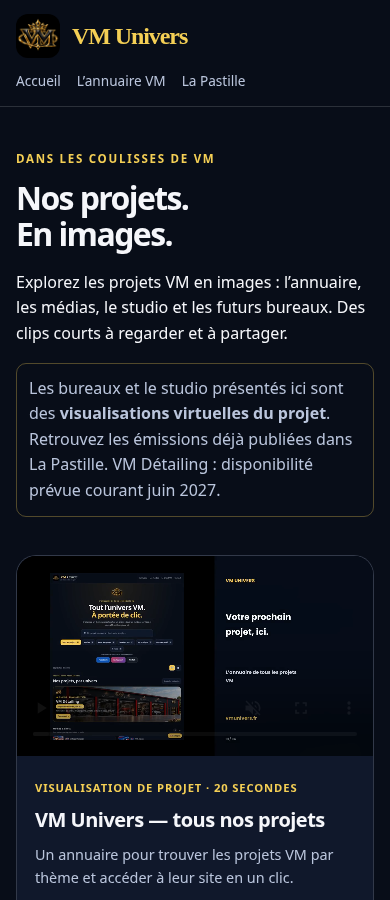
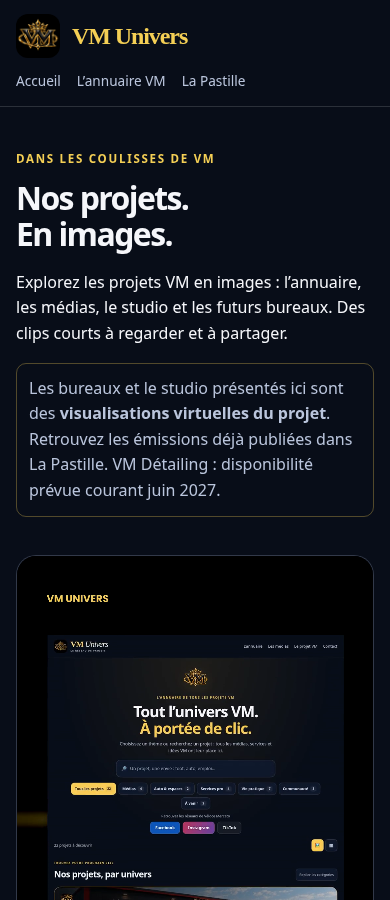
Adapte la galerie au format vidéo de chaque écran

diff --git a/decouvrir.html b/decouvrir.html
@@ -1,1 +1,1 @@
-<!doctype html><html lang="fr"><head><meta charset="utf-8"><meta name="viewport" content="width=device-width,initial-scale=1"><title>Les projets en images — VM Univers</title><meta name="description" content="Explorez les projets VM en images : l’annuaire, les médias, le studio et les futurs bureaux."><link rel="canonical" href="https://vmunivers.fr/decouvrir.html"><meta property="og:title" content="Les projets VM, en images"><meta property="og:description" content="Explorez les projets VM en images : l’annuaire, les médias, le studio et les futurs bureaux."><meta property="og:url" content="https://vmunivers.fr/decouvrir.html"><meta property="og:image" content="https://vmunivers.fr/media/promos/vm-univers-paysage.jpg"><link rel="icon" href="/app/univers-192.png"><link rel="stylesheet" href="/assets/promotion.css"></head><body><header class="promo-top"><a class="promo-brand" href="/"><img src="/app/univers-192.png" width="44" height="44" alt=""><strong>VM Univers</strong></a><nav class="promo-nav" aria-label="Navigation"><a href="/">Accueil</a><a href="https://vmunivers.fr/#projets">L’annuaire VM</a><a href="https://velocemercato.fr/studio.html#tv">La Pastille</a></nav></header><main><section class="promo-head"><p class="promo-kicker">DANS LES COULISSES DE VM</p><h1>Nos projets.<br>En images.</h1><p>Explorez les projets VM en images : l’annuaire, les médias, le studio et les futurs bureaux. Des clips courts à regarder et à partager.</p><p class="promo-note">Les bureaux et le studio présentés ici sont des <b>visualisations virtuelles du projet</b>. Retrouvez les émissions déjà publiées dans La Pastille. VM Détailing : disponibilité prévue courant juin 2027.</p></section><section class="promo-grid" aria-label="Vidéos de présentation"><article class="clip" id="vm-univers"><video controls playsinline preload="none" poster="/media/promos/vm-univers-paysage.jpg" aria-label="VM Univers — tous nos projets"><source src="/media/promos/vm-univers-paysage.mp4" type="video/mp4"><track kind="captions" src="/media/promos/vm-univers.vtt" srclang="fr" label="Textes de la vidéo">Votre navigateur ne peut pas lire cette vidéo. <a href="/media/promos/vm-univers-paysage.mp4">Ouvrir le MP4</a>.</video><div class="clip-body"><span class="clip-tag">VISUALISATION DE PROJET · 20 SECONDES</span><h2>VM Univers — tous nos projets</h2><p>Un annuaire pour trouver les projets VM par thème et accéder à leur site en un clic.</p><div class="clip-actions"><a class="primary" href="https://vmunivers.fr/">Explorer ce projet →</a><a href="/media/promos/vm-univers-vertical.mp4" download>Télécharger pour les réseaux</a><a href="/media/promos/vm-univers-paysage.mp4" download>Version horizontale</a></div><details class="clip-script"><summary>Lire la présentation</summary><ol><li><b>Votre prochain projet, ici.</b> — L’annuaire de tous les projets VM</li><li><b>Un thème. Un seul clic.</b> — Médias · services · outils · communauté</li><li><b>Une vision pour demain.</b> — Les futurs bureaux VM <span class="promo-badge">(visualisation du projet)</span></li><li><b>Entrez dans l’univers VM.</b> — Choisissez votre prochain projet</li></ol></details></div></article><article class="clip" id="vm-bureaux"><video controls playsinline preload="none" poster="/media/promos/vm-bureaux-paysage.jpg" aria-label="VM Univers — les futurs bureaux"><source src="/media/promos/vm-bureaux-paysage.mp4" type="video/mp4"><track kind="captions" src="/media/promos/vm-bureaux.vtt" srclang="fr" label="Textes de la vidéo">Votre navigateur ne peut pas lire cette vidéo. <a href="/media/promos/vm-bureaux-paysage.mp4">Ouvrir le MP4</a>.</video><div class="clip-body"><span class="clip-tag">VISUALISATION DE PROJET · 20 SECONDES</span><h2>VM Univers — les futurs bureaux</h2><p>Une visualisation de la partie bureaux du projet VM, dans l’esprit du bâtiment VM Détailing.</p><div class="clip-actions"><a class="primary" href="https://vmunivers.fr/decouvrir.html#vm-bureaux">Explorer ce projet →</a><a href="/media/promos/vm-bureaux-vertical.mp4" download>Télécharger pour les réseaux</a><a href="/media/promos/vm-bureaux-paysage.mp4" download>Version horizontale</a></div><details class="clip-script"><summary>Lire la présentation</summary><ol><li><b>Les bureaux VM. Demain se dessine.</b> — La partie bureaux du projet VM <span class="promo-badge">(visualisation du projet)</span></li><li><b>L’accueil. L’identité VM.</b> — Noir, rouge et or <span class="promo-badge">(visualisation du projet)</span></li><li><b>Des idées prennent forme.</b> — Une visualisation du projet, côté bureaux <span class="promo-badge">(visualisation du projet)</span></li><li><b>Explorez tous les projets.</b> — VM Univers, le portail central <span class="promo-badge">(visualisation du projet)</span></li></ol></details></div></article><article class="clip" id="vm-studio"><video controls playsinline preload="none" poster="/media/promos/vm-studio-paysage.jpg" aria-label="VM Studio — le projet TV &amp; radio"><source src="/media/promos/vm-studio-paysage.mp4" type="video/mp4"><track kind="captions" src="/media/promos/vm-studio.vtt" srclang="fr" label="Textes de la vidéo">Votre navigateur ne peut pas lire cette vidéo. <a href="/media/promos/vm-studio-paysage.mp4">Ouvrir le MP4</a>.</video><div class="clip-body"><span class="clip-tag">VISUALISATION DE PROJET · 20 SECONDES</span><h2>VM Studio — le projet TV &amp; radio</h2><p>Une visualisation du projet de studio TV et radio dans l’identité Véloce.</p><div class="clip-actions"><a class="primary" href="https://velocemercato.fr/studio.html#tv">Explorer ce projet →</a><a href="/media/promos/vm-studio-vertical.mp4" download>Télécharger pour les réseaux</a><a href="/media/promos/vm-studio-paysage.mp4" download>Version horizontale</a></div><details class="clip-script"><summary>Lire la présentation</summary><ol><li><b>Bienvenue dans VM Studio.</b> — Une identité Véloce, en version virtuelle <span class="promo-badge">(visualisation du projet)</span></li><li><b>Foot. Actus. Gaming.</b> — Le projet de plateau VM <span class="promo-badge">(visualisation du projet)</span></li><li><b>Le micro est à VM.</b> — TV, radio et personnages virtuels <span class="promo-badge">(visualisation du projet)</span></li><li><b>Découvrez La Pastille.</b> — Les émissions déjà publiées sont sur le site <span class="promo-badge">(visualisation du projet)</span></li></ol></details></div></article><article class="clip" id="veloce-foot"><video controls playsinline preload="none" poster="/media/promos/veloce-foot-paysage.jpg" aria-label="Véloce Mercato — le foot simplement"><source src="/media/promos/veloce-foot-paysage.mp4" type="video/mp4"><track kind="captions" src="/media/promos/veloce-foot.vtt" srclang="fr" label="Textes de la vidéo">Votre navigateur ne peut pas lire cette vidéo. <a href="/media/promos/veloce-foot-paysage.mp4">Ouvrir le MP4</a>.</video><div class="clip-body"><span class="clip-tag">DÉCOUVRIR LE SITE · 20 SECONDES</span><h2>Véloce Mercato — le foot simplement</h2><p>Le football et le mercato, des brèves sourcées aux émissions de La Pastille.</p><div class="clip-actions"><a class="primary" href="https://velocemercato.fr/">Explorer ce projet →</a><a href="/media/promos/veloce-foot-vertical.mp4" download>Télécharger pour les réseaux</a><a href="/media/promos/veloce-foot-paysage.mp4" download>Version horizontale</a></div><details class="clip-script"><summary>Lire la présentation</summary><ol><li><b>Le foot. Simple et rapide.</b> — L’univers Véloce Mercato</li><li><b>Mercato, brèves et scores.</b> — Des infos avec leurs sources</li><li><b>La Pastille Foot avec Heineguez.</b> — Présentateur virtuel · émissions générées par IA</li><li><b>Entrez dans le match.</b> — Actualités, quiz et communauté</li></ol></details></div></article><article class="clip" id="vm-actus"><video controls playsinline preload="none" poster="/media/promos/vm-actus-paysage.jpg" aria-label="VM Actus — comprendre l’essentiel"><source src="/media/promos/vm-actus-paysage.mp4" type="video/mp4"><track kind="captions" src="/media/promos/vm-actus.vtt" srclang="fr" label="Textes de la vidéo">Votre navigateur ne peut pas lire cette vidéo. <a href="/media/promos/vm-actus-paysage.mp4">Ouvrir le MP4</a>.</video><div class="clip-body"><span class="clip-tag">DÉCOUVRIR LE SITE · 20 SECONDES</span><h2>VM Actus — comprendre l’essentiel</h2><p>L’actualité en brèves avec les médias cités et les émissions de VM Actus.</p><div class="clip-actions"><a class="primary" href="https://velocemercato.fr/actus/">Explorer ce projet →</a><a href="/media/promos/vm-actus-vertical.mp4" download>Télécharger pour les réseaux</a><a href="/media/promos/vm-actus-paysage.mp4" download>Version horizontale</a></div><details class="clip-script"><summary>Lire la présentation</summary><ol><li><b>L’essentiel de l’actualité.</b> — France, monde et régions</li><li><b>Des brèves claires. Des sources citées.</b> — Explorez les thèmes qui vous intéressent</li><li><b>Le JT VM Actus avec Heineguez.</b> — Présentateur virtuel · émissions générées par IA</li><li><b>Prenez le temps de comprendre.</b> — Retrouvez les articles et les émissions</li></ol></details></div></article><article class="clip" id="vm-gaming"><video controls playsinline preload="none" poster="/media/promos/vm-gaming-paysage.jpg" aria-label="VM Gaming — trouve ta communauté"><source src="/media/promos/vm-gaming-paysage.mp4" type="video/mp4"><track kind="captions" src="/media/promos/vm-gaming.vtt" srclang="fr" label="Textes de la vidéo">Votre navigateur ne peut pas lire cette vidéo. <a href="/media/promos/vm-gaming-paysage.mp4">Ouvrir le MP4</a>.</video><div class="clip-body"><span class="clip-tag">DÉCOUVRIR LE SITE · 20 SECONDES</span><h2>VM Gaming — trouve ta communauté</h2><p>Les jeux vidéo, les actualités et une communauté à découvrir sur VM Gaming.</p><div class="clip-actions"><a class="primary" href="https://velocemercato.fr/vm-gaming/">Explorer ce projet →</a><a href="/media/promos/vm-gaming-vertical.mp4" download>Télécharger pour les réseaux</a><a href="/media/promos/vm-gaming-paysage.mp4" download>Version horizontale</a></div><details class="clip-script"><summary>Lire la présentation</summary><ol><li><b>Des jeux. Des actus. Des potes.</b> — Bienvenue dans VM Gaming</li><li><b>EA FC, GTA, Warzone et plus.</b> — Retrouvez les brèves de vos jeux</li><li><b>Une escouade. Une communauté.</b> — Personnages inventés · univers VM Gaming</li><li><b>Rejoignez VM Gaming.</b> — Découvrez le site et son Discord</li></ol></details></div></article></section></main><footer class="promo-foot"><p>VM Univers · un réseau de médias, de services et de projets.</p><a href="https://vmunivers.fr/">VM Univers</a><a href="https://velocemercato.fr/">Véloce Mercato</a><a href="https://velocemercato.fr/mentions-legales.html">Mentions légales</a></footer></body></html>
+<!doctype html><html lang="fr"><head><meta charset="utf-8"><meta name="viewport" content="width=device-width,initial-scale=1"><title>Les projets en images — VM Univers</title><meta name="description" content="Explorez les projets VM en images : l’annuaire, les médias, le studio et les futurs bureaux."><link rel="canonical" href="https://vmunivers.fr/decouvrir.html"><meta property="og:title" content="Les projets VM, en images"><meta property="og:description" content="Explorez les projets VM en images : l’annuaire, les médias, le studio et les futurs bureaux."><meta property="og:url" content="https://vmunivers.fr/decouvrir.html"><meta property="og:image" content="https://vmunivers.fr/media/promos/vm-univers-paysage.jpg"><link rel="icon" href="/app/univers-192.png"><link rel="stylesheet" href="/assets/promotion.css"><script src="/assets/promotion.js" defer></script></head><body><header class="promo-top"><a class="promo-brand" href="/"><img src="/app/univers-192.png" width="44" height="44" alt=""><strong>VM Univers</strong></a><nav class="promo-nav" aria-label="Navigation"><a href="/">Accueil</a><a href="https://vmunivers.fr/#projets">L’annuaire VM</a><a href="https://velocemercato.fr/studio.html#tv">La Pastille</a></nav></header><main><section class="promo-head"><p class="promo-kicker">DANS LES COULISSES DE VM</p><h1>Nos projets.<br>En images.</h1><p>Explorez les projets VM en images : l’annuaire, les médias, le studio et les futurs bureaux. Des clips courts à regarder et à partager.</p><p class="promo-note">Les bureaux et le studio présentés ici sont des <b>visualisations virtuelles du projet</b>. Retrouvez les émissions déjà publiées dans La Pastille. VM Détailing : disponibilité prévue courant juin 2027.</p></section><section class="promo-grid" aria-label="Vidéos de présentation"><article class="clip" id="vm-univers"><video data-promo="vm-univers" controls playsinline preload="none" poster="/media/promos/vm-univers-paysage.jpg" aria-label="VM Univers — tous nos projets"><source media="(max-width: 700px)" src="/media/promos/vm-univers-vertical.mp4" type="video/mp4"><source src="/media/promos/vm-univers-paysage.mp4" type="video/mp4"><track kind="captions" src="/media/promos/vm-univers.vtt" srclang="fr" label="Textes de la vidéo">Votre navigateur ne peut pas lire cette vidéo. <a href="/media/promos/vm-univers-paysage.mp4">Ouvrir le MP4</a>.</video><div class="clip-body"><span class="clip-tag">VISUALISATION DE PROJET · 20 SECONDES</span><h2>VM Univers — tous nos projets</h2><p>Un annuaire pour trouver les projets VM par thème et accéder à leur site en un clic.</p><div class="clip-actions"><a class="primary" href="https://vmunivers.fr/">Explorer ce projet →</a><a href="/media/promos/vm-univers-vertical.mp4" download>Télécharger pour les réseaux</a><a href="/media/promos/vm-univers-paysage.mp4" download>Version horizontale</a></div><details class="clip-script"><summary>Lire la présentation</summary><ol><li><b>Votre prochain projet, ici.</b> — L’annuaire de tous les projets VM</li><li><b>Un thème. Un seul clic.</b> — Médias · services · outils · communauté</li><li><b>Une vision pour demain.</b> — Les futurs bureaux VM <span class="promo-badge">(visualisation du projet)</span></li><li><b>Entrez dans l’univers VM.</b> — Choisissez votre prochain projet</li></ol></details></div></article><article class="clip" id="vm-bureaux"><video data-promo="vm-bureaux" controls playsinline preload="none" poster="/media/promos/vm-bureaux-paysage.jpg" aria-label="VM Univers — les futurs bureaux"><source media="(max-width: 700px)" src="/media/promos/vm-bureaux-vertical.mp4" type="video/mp4"><source src="/media/promos/vm-bureaux-paysage.mp4" type="video/mp4"><track kind="captions" src="/media/promos/vm-bureaux.vtt" srclang="fr" label="Textes de la vidéo">Votre navigateur ne peut pas lire cette vidéo. <a href="/media/promos/vm-bureaux-paysage.mp4">Ouvrir le MP4</a>.</video><div class="clip-body"><span class="clip-tag">VISUALISATION DE PROJET · 20 SECONDES</span><h2>VM Univers — les futurs bureaux</h2><p>Une visualisation de la partie bureaux du projet VM, dans l’esprit du bâtiment VM Détailing.</p><div class="clip-actions"><a class="primary" href="https://vmunivers.fr/decouvrir.html#vm-bureaux">Explorer ce projet →</a><a href="/media/promos/vm-bureaux-vertical.mp4" download>Télécharger pour les réseaux</a><a href="/media/promos/vm-bureaux-paysage.mp4" download>Version horizontale</a></div><details class="clip-script"><summary>Lire la présentation</summary><ol><li><b>Les bureaux VM. Demain se dessine.</b> — La partie bureaux du projet VM <span class="promo-badge">(visualisation du projet)</span></li><li><b>L’accueil. L’identité VM.</b> — Noir, rouge et or <span class="promo-badge">(visualisation du projet)</span></li><li><b>Des idées prennent forme.</b> — Une visualisation du projet, côté bureaux <span class="promo-badge">(visualisation du projet)</span></li><li><b>Explorez tous les projets.</b> — VM Univers, le portail central <span class="promo-badge">(visualisation du projet)</span></li></ol></details></div></article><article class="clip" id="vm-studio"><video data-promo="vm-studio" controls playsinline preload="none" poster="/media/promos/vm-studio-paysage.jpg" aria-label="VM Studio — le projet TV &amp; radio"><source media="(max-width: 700px)" src="/media/promos/vm-studio-vertical.mp4" type="video/mp4"><source src="/media/promos/vm-studio-paysage.mp4" type="video/mp4"><track kind="captions" src="/media/promos/vm-studio.vtt" srclang="fr" label="Textes de la vidéo">Votre navigateur ne peut pas lire cette vidéo. <a href="/media/promos/vm-studio-paysage.mp4">Ouvrir le MP4</a>.</video><div class="clip-body"><span class="clip-tag">VISUALISATION DE PROJET · 20 SECONDES</span><h2>VM Studio — le projet TV &amp; radio</h2><p>Une visualisation du projet de studio TV et radio dans l’identité Véloce.</p><div class="clip-actions"><a class="primary" href="https://velocemercato.fr/studio.html#tv">Explorer ce projet →</a><a href="/media/promos/vm-studio-vertical.mp4" download>Télécharger pour les réseaux</a><a href="/media/promos/vm-studio-paysage.mp4" download>Version horizontale</a></div><details class="clip-script"><summary>Lire la présentation</summary><ol><li><b>Bienvenue dans VM Studio.</b> — Une identité Véloce, en version virtuelle <span class="promo-badge">(visualisation du projet)</span></li><li><b>Foot. Actus. Gaming.</b> — Le projet de plateau VM <span class="promo-badge">(visualisation du projet)</span></li><li><b>Le micro est à VM.</b> — TV, radio et personnages virtuels <span class="promo-badge">(visualisation du projet)</span></li><li><b>Découvrez La Pastille.</b> — Les émissions déjà publiées sont sur le site <span class="promo-badge">(visualisation du projet)</span></li></ol></details></div></article><article class="clip" id="veloce-foot"><video data-promo="veloce-foot" controls playsinline preload="none" poster="/media/promos/veloce-foot-paysage.jpg" aria-label="Véloce Mercato — le foot simplement"><source media="(max-width: 700px)" src="/media/promos/veloce-foot-vertical.mp4" type="video/mp4"><source src="/media/promos/veloce-foot-paysage.mp4" type="video/mp4"><track kind="captions" src="/media/promos/veloce-foot.vtt" srclang="fr" label="Textes de la vidéo">Votre navigateur ne peut pas lire cette vidéo. <a href="/media/promos/veloce-foot-paysage.mp4">Ouvrir le MP4</a>.</video><div class="clip-body"><span class="clip-tag">DÉCOUVRIR LE SITE · 20 SECONDES</span><h2>Véloce Mercato — le foot simplement</h2><p>Le football et le mercato, des brèves sourcées aux émissions de La Pastille.</p><div class="clip-actions"><a class="primary" href="https://velocemercato.fr/">Explorer ce projet →</a><a href="/media/promos/veloce-foot-vertical.mp4" download>Télécharger pour les réseaux</a><a href="/media/promos/veloce-foot-paysage.mp4" download>Version horizontale</a></div><details class="clip-script"><summary>Lire la présentation</summary><ol><li><b>Le foot. Simple et rapide.</b> — L’univers Véloce Mercato</li><li><b>Mercato, brèves et scores.</b> — Des infos avec leurs sources</li><li><b>La Pastille Foot avec Heineguez.</b> — Présentateur virtuel · émissions générées par IA</li><li><b>Entrez dans le match.</b> — Actualités, quiz et communauté</li></ol></details></div></article><article class="clip" id="vm-actus"><video data-promo="vm-actus" controls playsinline preload="none" poster="/media/promos/vm-actus-paysage.jpg" aria-label="VM Actus — comprendre l’essentiel"><source media="(max-width: 700px)" src="/media/promos/vm-actus-vertical.mp4" type="video/mp4"><source src="/media/promos/vm-actus-paysage.mp4" type="video/mp4"><track kind="captions" src="/media/promos/vm-actus.vtt" srclang="fr" label="Textes de la vidéo">Votre navigateur ne peut pas lire cette vidéo. <a href="/media/promos/vm-actus-paysage.mp4">Ouvrir le MP4</a>.</video><div class="clip-body"><span class="clip-tag">DÉCOUVRIR LE SITE · 20 SECONDES</span><h2>VM Actus — comprendre l’essentiel</h2><p>L’actualité en brèves avec les médias cités et les émissions de VM Actus.</p><div class="clip-actions"><a class="primary" href="https://velocemercato.fr/actus/">Explorer ce projet →</a><a href="/media/promos/vm-actus-vertical.mp4" download>Télécharger pour les réseaux</a><a href="/media/promos/vm-actus-paysage.mp4" download>Version horizontale</a></div><details class="clip-script"><summary>Lire la présentation</summary><ol><li><b>L’essentiel de l’actualité.</b> — France, monde et régions</li><li><b>Des brèves claires. Des sources citées.</b> — Explorez les thèmes qui vous intéressent</li><li><b>Le JT VM Actus avec Heineguez.</b> — Présentateur virtuel · émissions générées par IA</li><li><b>Prenez le temps de comprendre.</b> — Retrouvez les articles et les émissions</li></ol></details></div></article><article class="clip" id="vm-gaming"><video data-promo="vm-gaming" controls playsinline preload="none" poster="/media/promos/vm-gaming-paysage.jpg" aria-label="VM Gaming — trouve ta communauté"><source media="(max-width: 700px)" src="/media/promos/vm-gaming-vertical.mp4" type="video/mp4"><source src="/media/promos/vm-gaming-paysage.mp4" type="video/mp4"><track kind="captions" src="/media/promos/vm-gaming.vtt" srclang="fr" label="Textes de la vidéo">Votre navigateur ne peut pas lire cette vidéo. <a href="/media/promos/vm-gaming-paysage.mp4">Ouvrir le MP4</a>.</video><div class="clip-body"><span class="clip-tag">DÉCOUVRIR LE SITE · 20 SECONDES</span><h2>VM Gaming — trouve ta communauté</h2><p>Les jeux vidéo, les actualités et une communauté à découvrir sur VM Gaming.</p><div class="clip-actions"><a class="primary" href="https://velocemercato.fr/vm-gaming/">Explorer ce projet →</a><a href="/media/promos/vm-gaming-vertical.mp4" download>Télécharger pour les réseaux</a><a href="/media/promos/vm-gaming-paysage.mp4" download>Version horizontale</a></div><details class="clip-script"><summary>Lire la présentation</summary><ol><li><b>Des jeux. Des actus. Des potes.</b> — Bienvenue dans VM Gaming</li><li><b>EA FC, GTA, Warzone et plus.</b> — Retrouvez les brèves de vos jeux</li><li><b>Une escouade. Une communauté.</b> — Personnages inventés · univers VM Gaming</li><li><b>Rejoignez VM Gaming.</b> — Découvrez le site et son Discord</li></ol></details></div></article></section></main><footer class="promo-foot"><p>VM Univers · un réseau de médias, de services et de projets.</p><a href="https://vmunivers.fr/">VM Univers</a><a href="https://velocemercato.fr/">Véloce Mercato</a><a href="https://velocemercato.fr/mentions-legales.html">Mentions légales</a></footer></body></html>

diff --git a/assets/promotion.css b/assets/promotion.css
@@ -1,2 +1,4 @@
 
 :root{color-scheme:dark;--gold:#f4cf55;--muted:#bac5dc;--bg:#080d18;--panel:#10182b}*{box-sizing:border-box}body{margin:0;background:var(--bg);color:#f5f6fa;font:16px/1.6 system-ui,sans-serif}a{color:var(--gold)}a:focus-visible,summary:focus-visible{outline:3px solid var(--gold);outline-offset:5px}.promo-top{position:sticky;top:0;z-index:20;display:flex;align-items:center;justify-content:space-between;gap:20px;max-width:1160px;margin:auto;padding:16px 24px;background:var(--bg);border-bottom:1px solid #ffffff25}.promo-brand{display:flex;align-items:center;gap:12px;color:#fff;text-decoration:none;font-weight:800}.promo-brand img{width:44px;height:44px;object-fit:contain;border-radius:12px}.promo-brand strong{font:700 1.65rem/1 Georgia,serif;letter-spacing:-.045em;color:var(--gold)}.promo-nav{display:flex;flex-wrap:wrap;gap:18px}.promo-nav a{font-size:.85rem;color:var(--muted);text-decoration:none}.promo-head{max-width:1000px;margin:0 auto;padding:48px 24px 30px}.promo-kicker{font-size:.72rem;font-weight:800;letter-spacing:.15em;color:var(--gold)}h1{font-size:clamp(2rem,6vw,3.5rem);letter-spacing:-.05em;line-height:1.12;margin:10px 0 18px}.promo-head>p:last-child{color:var(--muted);max-width:780px}.promo-grid{display:grid;grid-template-columns:repeat(2,minmax(0,1fr));gap:24px;max-width:1160px;margin:auto;padding:0 24px 48px}.clip{min-width:0;border:1px solid #ffffff25;border-radius:20px;overflow:hidden;background:var(--panel);scroll-margin-top:110px}.clip video{display:block;width:100%;aspect-ratio:16/9;object-fit:contain;background:#050810}.clip-body{padding:22px}.clip h2{font-size:1.25rem;line-height:1.3;letter-spacing:-.025em;margin:0 0 10px}.clip p{color:var(--muted);font-size:.9rem;margin:8px 0 16px}.clip-tag{display:inline-block;font-size:.7rem;color:var(--gold);font-weight:800;letter-spacing:.08em;margin:0 0 10px}.clip-actions{display:flex;flex-wrap:wrap;gap:10px}.clip-actions a{display:inline-flex;align-items:center;min-height:44px;padding:10px 12px;border-radius:10px;border:1px solid #ffffff30;font:700 .8rem/1.4 system-ui,sans-serif;text-decoration:none}.clip-actions a.primary{background:var(--gold);color:#10182b;border-color:var(--gold)}.clip-script{border-top:1px solid #ffffff20;padding-top:14px;margin-top:20px;color:var(--muted);font-size:.85rem}.clip-script summary{cursor:pointer;min-height:36px}.clip-script ol{padding-left:20px}.clip-script li{margin:8px 0}.promo-foot{max-width:1112px;margin:0 auto;padding:24px 0 60px;border-top:1px solid #ffffff25;color:var(--muted);font-size:.8rem}.promo-foot a{margin-right:18px}.promo-note{padding:12px;border:1px solid #f4cf5550;border-radius:10px}.promo-badge{color:var(--gold)}@media(max-width:700px){.promo-top{padding:14px 16px;flex-wrap:wrap;gap:12px}.promo-nav{gap:16px}.promo-grid{grid-template-columns:minmax(0,1fr);padding:0 16px 32px;gap:20px}.promo-head{padding:32px 16px 22px}.clip-body{padding:18px}.promo-foot{padding:24px 16px 50px}.promo-brand strong{font-size:1.5rem}}
+
+.clip video.is-vertical{aspect-ratio:9/16}

diff --git a/assets/promotion.js b/assets/promotion.js
@@ -1,0 +1,10 @@
+/* Choisir le format au chargement, sans changer une lecture en cours. */
+(() => {
+  const vertical = matchMedia('(max-width: 700px)').matches;
+  document.querySelectorAll('video[data-promo]').forEach(video => {
+    if (!vertical) return;
+    const id = video.dataset.promo;
+    video.classList.add('is-vertical');
+    video.poster = `/media/promos/${id}-vertical.jpg`;
+  });
+})();

diff --git a/docs/campagne/VALIDATION.md b/docs/campagne/VALIDATION.md
@@ -6,6 +6,7 @@
 - 5 tests du portail, 3 parcours de l’annuaire et 5 tests du site football réussis.
 - 12 MP4 décodés intégralement : H.264, YUV420p, AAC 48 kHz, 30 images/s, environ 20 secondes ; index MP4 placé avant les données vidéo.
 - Contrôle des pages d’accueil et des galeries aux largeurs 320, 390, 768 et 1440 pixels. Lecture H.264 réelle dans Chromium, aucun débordement détecté.
+- Format vertical choisi sur téléphone, horizontal sur grand écran, sans réinitialiser une lecture en cours.
 - Aucun MP4 téléchargé avant une lecture volontaire dans la galerie ; aucun lecteur publicitaire ajouté automatiquement aux accueils.
 - Date VM Détailing et liens Facebook/Instagram/TikTok conservés sur le portail ; nom personnel et numéro absents des nouvelles pages.
 - Les vues de bureaux et de studio portent la mention de projet virtuel dans les clips et leurs pages.
